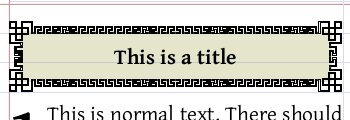
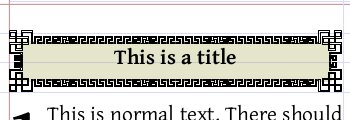
Replace boolean with heading option
Update documentation

Changed region(s): [[0.0286, 0.175, 1.0, 0.575], [0.0286, 0.5, 0.0857, 0.575]]

diff --git a/src/ptx-extended.tex b/src/ptx-extended.tex
@@ -872,7 +872,7 @@
   \edef\b@xgridadj{\the\dimen4}%
   \ifdoIntskip
     \trace{e}{hts: \the\headingtopspace, b@xintadj:\b@xintadj, b@xgridadj\b@xgridadj}%
-    \ifx\@@sb@rgrid\gr@dnone
+    \x@\ifx\csname @gr@d@\@@sb@rgrid\endcsname\false
       \trace{e}{No intskip}%
     \else
       \setbox\extb@x\vbox{%\dbghrule
@@ -995,7 +995,7 @@
       \advance\dimen1 by -\sp@ceafter
       \relax
       \ifdoIntskip
-        \ifx\@@sb@rgrid\gr@dnone
+        \x@\ifx\csname @gr@d@\@@sb@rgrid\endcsname\false
           \doIntskipfalse
           \advance\dimen1 by \b@xgridadj
       \fi\fi
@@ -1008,7 +1008,8 @@
         \dimen1=0pt \def\b@xextadj{0pt}\def\b@xintadj{0pt}%
       \fi
       \ifdoIntskip\else
-        \ifx\@@sb@rgrid\gr@dnone\ifpicUsesIns\else
+        \x@\ifx\csname @gr@d@\@@sb@rgrid\endcsname\false
+          \ifpicUsesIns\else
           \trace{e}{Killing post-skips as gridding disabled (\@@sb@rgrid)}% 
           \dimen1=0pt
         \fi\fi
@@ -1029,7 +1030,7 @@
         \dimen1=-\sp@ceafter
       \fi
       \ifdoIntskip
-        \ifx\@@sb@rgrid\gr@dnone
+        \x@\ifx\csname @gr@d@\@@sb@rgrid\endcsname\false
           \doIntskipfalse
           \advance\dimen1 by \b@xgridadj
       \fi\fi
@@ -1149,7 +1150,7 @@
   \ifvoid\sid@barnotes\else
     \ifinner%\unvbox\sid@barnotes % Inner boxes can't do vadjust, and if we unvbox here they'll be lost. Hopefully they can be unwrapped somewhere else.
     \else
-      \vadjust{\unvbox\sid@barnotes}%
+      \ifhmode\vadjust\fi{\unvbox\sid@barnotes}%
     \fi
   \fi
   \let\fb@lpadding\os@vedlpadding

diff --git a/src/ptx-para-style.tex b/src/ptx-para-style.tex
@@ -136,7 +136,7 @@
     \fi
   \else
     \ifinextended\trace{e}{sb@rgrid: \sb@rgrid, lpc:\lastp@rclass,tpc:\thisp@rclass}%
-      \ifx\sb@rgrid\gr@dnone
+      \x@\ifx\csname @gr@d@\sb@rgrid\endcsname\false
         \unvbox\he@dingbox
         %\showboxbreadth=99\showlists
     \fi\fi % Disable gridding of headings box if no gridding here
@@ -199,8 +199,6 @@
 % returns in \dimen0 how much to advance \dimen1 to be an integral multiple of \dimen0
 % \dimen1 ends up rounded down to an integral number of input \dimen0
 \def\m@d{\dimen3=\dimen1\divide\dimen1\dimen0\multiply\dimen1\dimen0\advance\dimen3 by -\dimen1\advance\dimen0 by -\dimen3}
-\newif\ifSidebarGriddingNoneKeepSpaceBefore
-\SidebarGriddingNoneKeepSpaceBeforefalse
 \newdimen\upwardsHackDiff \upwardsHackDiff=0pt
 \def\gr@db@@x#1{%
   \ifdim\baselineskip < 0.5pt \unvbox#1
@@ -600,7 +598,6 @@
     \fi
     \trace{eh}{Starting \B@xtype box for \m@rker}%
     \x@\@sb\x@\cat\B@xtype box\cat*
-    \SidebarGriddingNoneKeepSpaceBeforetrue
     \let\m@rker\tmphb
   \fi
   \mcpushunderms{P}{#1}%
@@ -633,7 +630,7 @@
         \ifinextended 
           \ifx\lastp@rclass\empty %Top of side-bar: never any space
             \ifx\sb@rgrid\gr@dorig\else
-              \ifnum 1=\ifx\sb@rgrid\gr@dnone \ifSidebarGriddingNoneKeepSpaceBefore 0 \else 1 \fi\else 1\fi
+              \ifx\sb@rgrid\gr@dheading\else
                 \headingmidspace=0pt
                 \headingtopspace=0pt
               \fi

diff --git a/src/ptx-constants.tex b/src/ptx-constants.tex
@@ -108,8 +108,15 @@
 \def\St@lone{standalone}
 \def\gr@dorig{orig} % Grid the text inside and grid the box. (resulting in over-gridding)
 \def\gr@dnone{none} % No grid corrections
+\def\gr@dheading{heading} % No grid corrections, but keep headings' SpaceBefore at the top of the box
 \def\gr@dnormal{normal} % Do something a bit clever at the top of the box
-\def\gr@dsmart{smart} % Do something even cleverer, based on the box height
+\def\gr@dsmart{smart} % Do something even cleverer, 
+\x@\let\csname @gr@d@\gr@dorig\endcsname\tr@e
+\x@\let\csname @gr@d@\gr@dnormal\endcsname\tr@e
+\x@\let\csname @gr@d@\gr@dsmart\endcsname\tr@e
+\x@\let\csname @gr@d@\gr@dnone\endcsname\false
+\x@\let\csname @gr@d@\gr@dheading\endcsname\false
+
 \def\h@phen{-} % for matching
 {\catcode`+=11 
  \catcode`-=11

diff --git a/docs/documentation/SideBars.md b/docs/documentation/SideBars.md
@@ -4,18 +4,29 @@ borders and their own watermark or background image, and a foreground image such
 
 Although the USFM standard is silent on this matter, PTXprint allows sidebars to nest. This means that any element that the typesetter might want to have a background image, border, etc. can be expressed through a suitable sidebar. E.g. a white background for an ISBN barcode is best provided by a sidebar.
 
+
 ## Styling options for side bars
 The USFM standard suggests `\esb \cat people\cat* ....`   to be the opening of  a sidebar. The styling is thus associated with a sub-category of `\esb`. Paratext does not appear to have a format for indicating such styling in the stylesheet, and PTXprint thus had to invent one:  
 `\Marker cat:people|esb`  Most of this document discusses the styling optins for the sidebar. However, first the styling of paragraphs, etc. will be addressed:
 
+
 ##Styling markers within sidebars
-A feature of sidebars is that it is normal for styling to be different inside them. E.g. font size may be smaller, the font face may be different, etc.
+A feature of sidebars is that it is **normal** for styling to be different inside them. E.g. font size may be smaller, the font face may be different, etc.
 the stylesheet format for items within the stylesheet is to prefix them with the category prefix of the enclosing sidebar. i.e. `\Marker cat:people|p`
 
 ### Shorthand for formatting multiple paragraph/character styles.
 PTXprint also defines the 'sidebar formatting group' format:
  `\Category people`, which is ended by `\EndCategory`
-Opening the group both starts styling entries for `cat:people|esb` but also interprets any subsequent `\Marker p` entries as though they were prefixed with the category prefix for that sidebar. 
+Opening the group both starts styling entries for `cat:people|esb` but also interprets any subsequent `\Marker p` type entries as though they were prefixed with the category prefix for that sidebar. 
+
+## Automatic sidebars
+As well as sidebars specified in the input, PTXprint provides a number of automatic or implicit sidebars, which while they do not need to be begun and ended nevertheless exist and affect styling. These include the 4 main parts of covers (whole, front, spine and back) and the automatic sidebars for headings and titles. 
+
+To enable headings to be wrapped in a sidebar, the style `cat:headingsbox|esb` (or see further) must be set to `\TextMode publishable` (the default is `nonpublishable`). In the user interface this control is 'Hide/exclude contents of marker'.  Similarly `cat:titlebox|esb` controls title blocks such as those started `\mt1`.
+
+If it is desired to specify styling for e.g. a block that starts with an `\s2` differently to one that starts with `\s1`, this is also possible. If a style exists for `cat:s1box|esb`, then when `\s1` starts a headings block the styling (and publishability) of that are obeyed, and `cat:headingsbox|esb` is entirely ignored.
+
+**Note** that automatic/implicit heading sidebars only operate at the normal level of text, and apply to the entire heading block. If it is desired that headings in sidebars be boxed, or for only part of a block to be in a sidebar, they should be nested explicitly (e.g. via the ptxprint-changes file). 
 
 ## Specific Sidebar layout and formatting
 
@@ -241,14 +252,46 @@ Left, Right, Top and Bottom can all be controlled separately. For historic / con
 multiple values can be set at once, with  `\BorderHPadding` `\BorderVPadding` each setting two 
 measurements, and `\BorderPadding` setting all four.
 
+
+## Sidebar layout and constraints
+The TeX code has two opportunites to interact with the content of a sidebar: before the content has been defined and afterwards. Before, the width is calculated and parameters are set up that trigger style changes (e.g. selection of special versions of styles, see [Categories document](Categories.md) ) or trigger important information to be preserved.
+
+Once the sidebar has ended, the content has been arranged into a series of paragraphs and is basically an opaque box. That contents-box has, as is normal in TeX,  a height, width and depth (below the baseline) of the last line of text. There is no opportunity to adjust the width, reposition paragraphs, or know where the baseline of mid-sidebar paragraphs are.
+
+### Width
+The total width of the contents-box and any surrounding borders and padding  must fit in the space defined -- the width of the containing element (page, column or another sidebar) multiplied by the `\Scale` property supplied. Thus dimensions are calculated by the code **before** the sidebar content starts. This width of the sidebar contents  and the box padding, border width and padding. Similarily, the position of foreground images must be determined before any content has been defined, and for images positioned at the side of the sidebar, this further reduces the width of text. For images in cut-outs, the image must also be added to the input stream. (This, hopefully, explains why foreground images cannot in general reference the as-yet-unknown height of the sidebar contents).
+
+### Height
+The final height of the sidebar is similarly constructed with paddings, etc, but also includes the `SpaceBefore` and `SpaceAfter` (which 
+occur outside the border). Also there are a number of other constraints to a sidebar:
+
+* A sidebar that is set to be at the top of the page should have its border at the edge of the margin, subject to adjustments by `SpaceBefore` (similarly at the bottom and `SpaceAfter`). 
+* Any long sidebar not in a cutout and having text set at the normal line spacing should have its lines properly on the grid.
+* (As mentioned earlier) only the baseline of the final line of text is known.
+* Text *after* the sidebar should not be moved off-grid.
+* The relationship between any colour fill and border must be kept entirely rigid.
+* A full-page sidebar (`Position Fcf`) must fill the page!
+
+Thus, there are multiple fixed constraints and a large number of calculations. It will be realised from the above that meeting both the border and the two gridding constraints do not interact well without some flexibility. The potential places for making adjustments are:
+
+1. Above the sidebar's top border (and `SpaceBefore`)
+2. Above the sidebar's contents
+3. Below the sidebar's contents
+4. Below the sidebar's bottom border. (and `SpaceAfter`)
+
+In different circumstances all of these are used, and up to a baseline of space may need to be added.
+If the sidebar starts with a heading and that heading has space above it, then that should be considered  in (2) above. This measurement is remembered by the code that adds that space and it provides some extra leeway for negative adjustments to be made, or it can be removed entirely if the contents is not to be put on-grid.
+ 
 ### On-grid or off grid
+
 `\SidebarGridding option`
 
-* Options: `normal`, `smart`, `none`, `orig`.
+* Options: `normal`, `smart`, `none`, `heading`,  `orig`.
 
-* `orig` Attempts to preserve the original spacing, before this control was added. The only option that (always) obeys a heading's `BeforeSpace` at the start of the sidebar. It is therefore usually better than `normal` or `smart` for boxed headings or titles.
+* `orig` Attempts to preserve the original spacing, before this control was added. This obeys a heading's `BeforeSpace` at the start of the sidebar. It is therefore usually better than `normal`,  `smart` or `none` for boxed headings or titles.
 * `normal` treats the top of the sidebar like the top of the page (removing "wasted" space from SpaceBefore) and  (except for cutouts) adjusts the position of the final line of text so that it is on-grid.
-* `none` disables all attempts to keep the text on-grid. Headings in the side-bar are spaced exactly according to their SpaceBefore and SpaceAfter controls, with none of the normal automatic grid correction. The exception to this is that SpaceBefore is normally ignored at the top of the sidebar. Setting the global boolean `\SidebarGriddingNoneKeepSpaceBeforetrue` means that the SpaceBefore value is never discarded at the top of the sidebar. The boolean is locally set for in the code that automatically starts `titlebox` and `headingsbox` sidebars when they are enabled, meaning this option may be a good choice for those styles.
+* `none` disables all attempts to keep the text on-grid. Headings in the side-bar are spaced exactly according to their SpaceBefore and SpaceAfter controls, with none of the normal automatic grid correction. The exception to this is that SpaceBefore is ignored at the top of the sidebar. 
+* `heading` like none, except that SpaceBefore is never ignored. This is a good choice for  `titlebox` and `headingsbox` sidebars or other contents that is purely heading material. It oftens saves a line of space text compared to `orig`. 
 * `smart` puts the final line of text on-grid like `normal` if the sidebar is an integer number of baselines high (i.e. the body paragraphs are all set with `LineSpacing 1`, but does not otherwise.
 
 The considerations in selecting the best option are as follows:
@@ -257,10 +300,10 @@ The considerations in selecting the best option are as follows:
 * Sidebars in cutouts should probably use `none`.
 * (Long) sidebars that use the standard baseline should be expected to keep back-to-back registration, for clarity on thin paper. Use `normal` or `orig`
 * For sidebars that always use a non-standard baseline, registration is a non-issue, and it may be preferable to select `none`.
-* For very short sidebars, back-to-back registration is less of an issue.
+* For very short sidebars, back-to-back registration is less of an issue, pick in accordance with aesthetics.
 * For sidebar styles that occasionally contain paragraph styles with unusual baselines, but often tend towards being long, `smart`  is probably to be prefered.
 * `normal` or `orig` should be used if the paragraphs use the standard baseline but the sidebar often starts with rules, `\b` or `\zgap`   that would cause `smart` to ignore gridding.
-* For the automatic titlebox and headingsbox sidebars,  only `orig` and `none` obey the heading-style's `SpaceBefore` parameter, which may be a significant decision factor.
+* For the automatic titlebox and headingsbox sidebars,  only `orig` and `heading` obey the heading-style's `SpaceBefore` parameter, which may be a significant decision factor. (All options obey the heading-styles `SpaceAfter`)
 
 #### Comparison of options with normal and shrunk linespace
 
@@ -270,20 +313,22 @@ The considerations in selecting the best option are as follows:
 | `normal`| ![](imgs/on_SidebarGridding-normal.png) |![](imgs/off_SidebarGridding-normal.png "SidebarGridding normal") |
 | `smart`| ![](imgs/on_SidebarGridding-smart.png) |![](imgs/off_SidebarGridding-smart.png "SidebarGridding smart") |
 | `none`| ![](imgs/on_SidebarGridding-none.png) |![](imgs/off_SidebarGridding-none.png "SidebarGridding none") |
+| `heading`| ![](imgs/on_SidebarGridding-heading.jpg) |![](imgs/off_SidebarGridding-heading.png "SidebarGridding heading") |
 
 
-The above show that using `smart` reduces the space used on the page by a line in this case. `none` further affects the space used, by altering the internal layout within the sidebar, but it the issue of lost back-to-back registration means that it is probably unsuitable for longer sidebars.
+The above show that using `smart` reduces the space used on the page by a line in the case where the linespacing is smaller. `none` further affects the space used, by altering the internal layout within the sidebar, but it the issue of lost back-to-back registration means that it is normally unsuitable for long sidebars.
 
 Note: all of the comparisons above used `\XeTeXuseglyphmetrics=1` and a `BorderPadding` of 1. Not making use of glyph-based metrics would have caused a noticable increase in the spacing.
 
-#### Comparison of headingsbox 
+#### Comparison of options for headingsbox 
 
 | Option | Result|
 | -- | -- |
 |  `normal`|  ![ ](./imgs/headingsbox-normal.jpg  "SidebarGridding normal") |
 |  `smart`|  ![ ](imgs/headingsbox-smart.jpg  "SidebarGridding smart") |
-|  `orig`: | ![ ](imgs/headingsbox-orig.jpg  "SidebarGridding orig") |
+|  `orig` | ![ ](imgs/headingsbox-orig.jpg  "SidebarGridding orig") |
 |  `none` | ![ ](imgs/headingsbox-none.jpg  "SidebarGridding none") |
+|  `heading` | ![ ](imgs/headingsbox-heading.jpg  "SidebarGridding none") |
 
 The above were all created using `\s1` with `\SpaceBefore 4` and `\SpaceAfter 4`, and these sidebar settings:
 ```
@@ -298,7 +343,7 @@ The above were all created using `\s1` with `\SpaceBefore 4` and `\SpaceAfter 4`
 \BorderFillColour .5 .5 .5
 \BgColor 0.50 0.50 0
 ```
-### Other options
+## Other options (in testing)
 `\Breakable option`   **!!!DO NOT USE!!!**
 
 *  Options: T, F, value(0-1)
